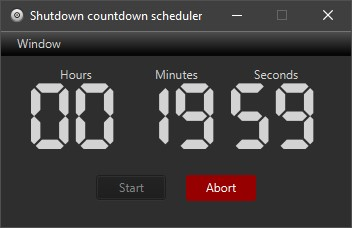
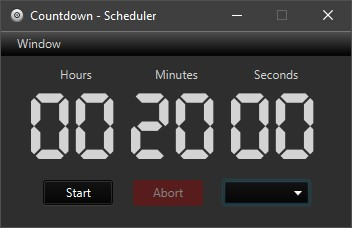
Added support for scheduling Sleep, Lock, Hibernate and Restart Refactored scene node FXML lookups About page added

diff --git a/MainModule/src/View/MainFrame.java b/MainModule/src/View/MainFrame.java
@@ -3,12 +3,14 @@ package View;
 import Model.TimeClass;
 import javafx.application.Application;
 import javafx.application.Platform;
+import javafx.collections.FXCollections;
+import javafx.event.ActionEvent;
+import javafx.fxml.FXML;
 import javafx.fxml.FXMLLoader;
+import javafx.scene.Node;
 import javafx.scene.Parent;
 import javafx.scene.Scene;
-import javafx.scene.control.Button;
-import javafx.scene.control.Label;
-import javafx.scene.control.TextField;
+import javafx.scene.control.*;
 import javafx.scene.image.Image;
 import javafx.scene.input.MouseButton;
 import javafx.scene.input.MouseEvent;
@@ -22,7 +24,6 @@ import java.util.Objects;
 import java.util.Timer;
 import java.util.TimerTask;
 
-//TODO:: other functional extensions > https://www.howtogeek.com/656672/how-to-create-a-shutdown-icon-in-windows-10/
 public class MainFrame extends Application {
 
     public static int WIDTH = 350;
@@ -31,27 +32,72 @@ public class MainFrame extends Application {
     private int totalTimeSeconds;
     static Timer timer;
 
-    Label hourLabel;
-    Label minuteLabel;
-    Label secondLabel;
+    @FXML
+    private MenuItem quit_menu_item;
+    @FXML
+    private MenuItem about_menu_item;
+    @FXML
+    private Label hour_label;
+    @FXML
+    private Label minute_label;
+    @FXML
+    private Label second_label;
+    @FXML
+    private Button start_button;
+    @FXML
+    private Button abort_button;
+    @FXML
+    private ChoiceBox task_choice_box;
 
     @Override
     public void start(Stage stage) throws Exception {
-
         Parent root = FXMLLoader.load(Objects.requireNonNull(getClass().getClassLoader().getResource("shutdown_scheduler.fxml")));
         Scene scene = new Scene(root, WIDTH, HEIGHT);
         scene.getStylesheets().add("stylesheet.css");
-        getFXMLTimeLabels(scene);
-
-        totalTimeSeconds = Integer.parseInt(hourLabel.getText()) * 3600 + Integer.parseInt(minuteLabel.getText()) * 60 + Integer.parseInt(secondLabel.getText());
-        setLabelMouseClickedEvent(stage);
-        setStartAbortActions(scene);
-
         setStageProperties(stage, scene);
     }
 
+    @FXML
+    void initialize() {
+        setTimeLabelFonts();
+        totalTimeSeconds = Integer.parseInt(hour_label.getText()) * 3600 + Integer.parseInt(minute_label.getText()) * 60 + Integer.parseInt(second_label.getText());
+        setLabelMouseClickedEvent();
+        setStartAbortActions();
+        String[] st = {"Shutdown", "Lock", "Sleep", "Restart", "Hibernate"};
+        task_choice_box.setItems(FXCollections.observableArrayList(st));
+        setMenuItemActions();
+    }
+
+    private void setMenuItemActions() {
+        quit_menu_item.setOnAction(actionEvent -> {
+            Platform.exit();
+            System.exit(0);
+        });
+        about_menu_item.setOnAction(actionEvent -> {
+            final Stage aboutStage = new Stage();
+            aboutStage.initModality(Modality.APPLICATION_MODAL);
+            aboutStage.getIcons().add(new Image("shutdown-4.png"));
+
+            Parent aboutRoot = null;
+            try {
+                aboutRoot = FXMLLoader.load(Objects.requireNonNull(getClass().getClassLoader().getResource("about_popup.fxml")));
+            } catch (IOException e) {
+                e.printStackTrace();
+            }
+            assert aboutRoot != null;
+            Scene aboutScene = new Scene(aboutRoot, WIDTH, HEIGHT);
+            aboutScene.getStylesheets().add("stylesheet.css");
+
+            aboutStage.setTitle("About");
+            aboutStage.setScene(aboutScene);
+            aboutStage.setResizable(false);
+            aboutStage.show();
+        });
+    }
+
+
     private void setStageProperties(Stage stage, Scene scene) {
-        stage.setTitle("Shutdown Countdown - Scheduler");
+        stage.setTitle("Countdown - Scheduler");
         stage.getIcons().add(new Image("shutdown-4.png"));
         stage.setResizable(false);
         stage.centerOnScreen();
@@ -63,42 +109,36 @@ public class MainFrame extends Application {
         stage.show();
     }
 
-    private void setStartAbortActions(Scene scene) {
-        Button startButton = (Button) scene.lookup("#start_button");
-        Button abortButton = (Button) scene.lookup("#abort_button");
-
-        startButton.setOnAction(actionEvent -> {
+    private void setStartAbortActions() {
+        start_button.setOnAction(actionEvent -> {
             createAndStartTimer();
-            startButton.setDisable(true);
-            abortButton.setDisable(false);
+            start_button.setDisable(true);
+            abort_button.setDisable(false);
         });
-        abortButton.setOnAction(actionEvent -> {
+        abort_button.setOnAction(actionEvent -> {
             timer.cancel();
-            startButton.setDisable(false);
-            abortButton.setDisable(true);
+            start_button.setDisable(false);
+            abort_button.setDisable(true);
         });
     }
 
-    private void setLabelMouseClickedEvent(Stage stage) {
-        hourLabel.setOnMouseClicked(mouseEvent -> showTimeSelectionPopup(mouseEvent, stage, hourLabel, "Hour"));
-        minuteLabel.setOnMouseClicked(mouseEvent -> showTimeSelectionPopup(mouseEvent, stage, minuteLabel, "Minute"));
-        secondLabel.setOnMouseClicked(mouseEvent -> showTimeSelectionPopup(mouseEvent, stage, secondLabel, "Second"));
+    private void setLabelMouseClickedEvent() {
+        hour_label.setOnMouseClicked(mouseEvent -> showTimeSelectionPopup(mouseEvent, hour_label, "Hour"));
+        minute_label.setOnMouseClicked(mouseEvent -> showTimeSelectionPopup(mouseEvent, minute_label, "Minute"));
+        second_label.setOnMouseClicked(mouseEvent -> showTimeSelectionPopup(mouseEvent, second_label, "Second"));
     }
 
-    private void getFXMLTimeLabels(Scene scene) {
-        hourLabel = (Label) scene.lookup("#hour_label");
-        hourLabel.setFont(Font.loadFont(Objects.requireNonNull(getClass().getClassLoader().getResource("DigitalDisplay.ttf")).toExternalForm(), 100));
-        minuteLabel = (Label) scene.lookup("#minute_label");
-        minuteLabel.setFont(Font.loadFont(Objects.requireNonNull(getClass().getClassLoader().getResource("DigitalDisplay.ttf")).toExternalForm(), 100));
-        secondLabel = (Label) scene.lookup("#second_label");
-        secondLabel.setFont(Font.loadFont(Objects.requireNonNull(getClass().getClassLoader().getResource("DigitalDisplay.ttf")).toExternalForm(), 100));
+    private void setTimeLabelFonts() {
+        hour_label.setFont(Font.loadFont(Objects.requireNonNull(getClass().getClassLoader().getResource("DigitalDisplay.ttf")).toExternalForm(), 100));
+        minute_label.setFont(Font.loadFont(Objects.requireNonNull(getClass().getClassLoader().getResource("DigitalDisplay.ttf")).toExternalForm(), 100));
+        second_label.setFont(Font.loadFont(Objects.requireNonNull(getClass().getClassLoader().getResource("DigitalDisplay.ttf")).toExternalForm(), 100));
     }
 
-    private void showTimeSelectionPopup(MouseEvent mouseEvent, Stage stage, Label label, String timeType) {
+    private void showTimeSelectionPopup(MouseEvent mouseEvent, Label label, String timeType) {
         if (mouseEvent.getButton().equals(MouseButton.PRIMARY) && mouseEvent.getClickCount() == 2) {
             final Stage dialogStage = new Stage();
             dialogStage.initModality(Modality.APPLICATION_MODAL);
-            dialogStage.initOwner(stage);
+            dialogStage.initOwner(((Node) mouseEvent.getSource()).getScene().getWindow());
             dialogStage.getIcons().add(new Image("shutdown-4.png"));
 
             Parent dialogRoot = null;
@@ -108,7 +148,7 @@ public class MainFrame extends Application {
                 e.printStackTrace();
             }
             assert dialogRoot != null;
-            Scene dialogScene = new Scene(dialogRoot, 300, 200);
+            Scene dialogScene = new Scene(dialogRoot, WIDTH, HEIGHT);
             dialogScene.getStylesheets().add("stylesheet.css");
 
 
@@ -119,7 +159,7 @@ public class MainFrame extends Application {
             Button doneButton = (Button) dialogScene.lookup("#done_time_button");
             doneButton.setOnAction(actionEvent -> {
                 label.setText(timeTextField.getText());
-                totalTimeSeconds = Integer.parseInt(hourLabel.getText()) * 3600 + Integer.parseInt(minuteLabel.getText()) * 60 + Integer.parseInt(secondLabel.getText());
+                totalTimeSeconds = Integer.parseInt(hour_label.getText()) * 3600 + Integer.parseInt(minute_label.getText()) * 60 + Integer.parseInt(second_label.getText());
                 dialogStage.close();
             });
 
@@ -154,6 +194,7 @@ public class MainFrame extends Application {
             });
             dialogStage.setTitle("Set the " + timeType);
             dialogStage.setScene(dialogScene);
+            dialogStage.setResizable(false);
             dialogStage.show();
         }
     }
@@ -167,10 +208,10 @@ public class MainFrame extends Application {
                 Platform.runLater(() -> {
                     totalTimeSeconds -= 1;
 
-                    if (totalTimeSeconds == 5) {
+                    if (totalTimeSeconds == 0) {
                         Runtime runtime = Runtime.getRuntime();
                         try {
-                            runtime.exec("shutdown -s -t 5"); // TODO:: REDUCE THIS TO 0 SECONDS
+                            runtime.exec(getDesiredCommand());
                         } catch (IOException e) {
                             e.printStackTrace();
                         }
@@ -181,25 +222,39 @@ public class MainFrame extends Application {
 
                     int seconds = timeClass.getSeconds();
                     if (seconds < 10) {
-                        secondLabel.setText("0".concat(String.valueOf(seconds)));
+                        second_label.setText("0".concat(String.valueOf(seconds)));
                     } else {
-                        secondLabel.setText(String.valueOf(seconds));
+                        second_label.setText(String.valueOf(seconds));
                     }
 
                     int minutes = timeClass.getMinutes();
                     if (minutes < 10) {
-                        minuteLabel.setText("0".concat(String.valueOf(minutes)));
+                        minute_label.setText("0".concat(String.valueOf(minutes)));
                     } else {
-                        minuteLabel.setText(String.valueOf(minutes));
+                        minute_label.setText(String.valueOf(minutes));
                     }
 
                     int hours = timeClass.getHours();
                     if (hours < 10) {
-                        hourLabel.setText("0".concat(String.valueOf(hours)));
+                        hour_label.setText("0".concat(String.valueOf(hours)));
                     } else {
-                        hourLabel.setText(String.valueOf(hours));
+                        hour_label.setText(String.valueOf(hours));
                     }
                 });
+            }
+
+            private String getDesiredCommand() {
+                String chosenTask = (String) task_choice_box.getValue();
+                if (chosenTask == null) {
+                    return "shutdown -s -t 0";
+                }
+                return switch (chosenTask) {
+                    case "Sleep" -> "rundll32 powrprof.dll,SetSuspendState 0,1,0";
+                    case "Restart" -> "shutdown -r -t 0";
+                    case "Hibernate" -> "rundll32 PowrProf.dll,SetSuspendState";
+                    case "Lock" -> "rundll32 User32.dll,LockWorkStation";
+                    default -> "shutdown -s -t 0";
+                };
             }
         }, delay, period);
     }
